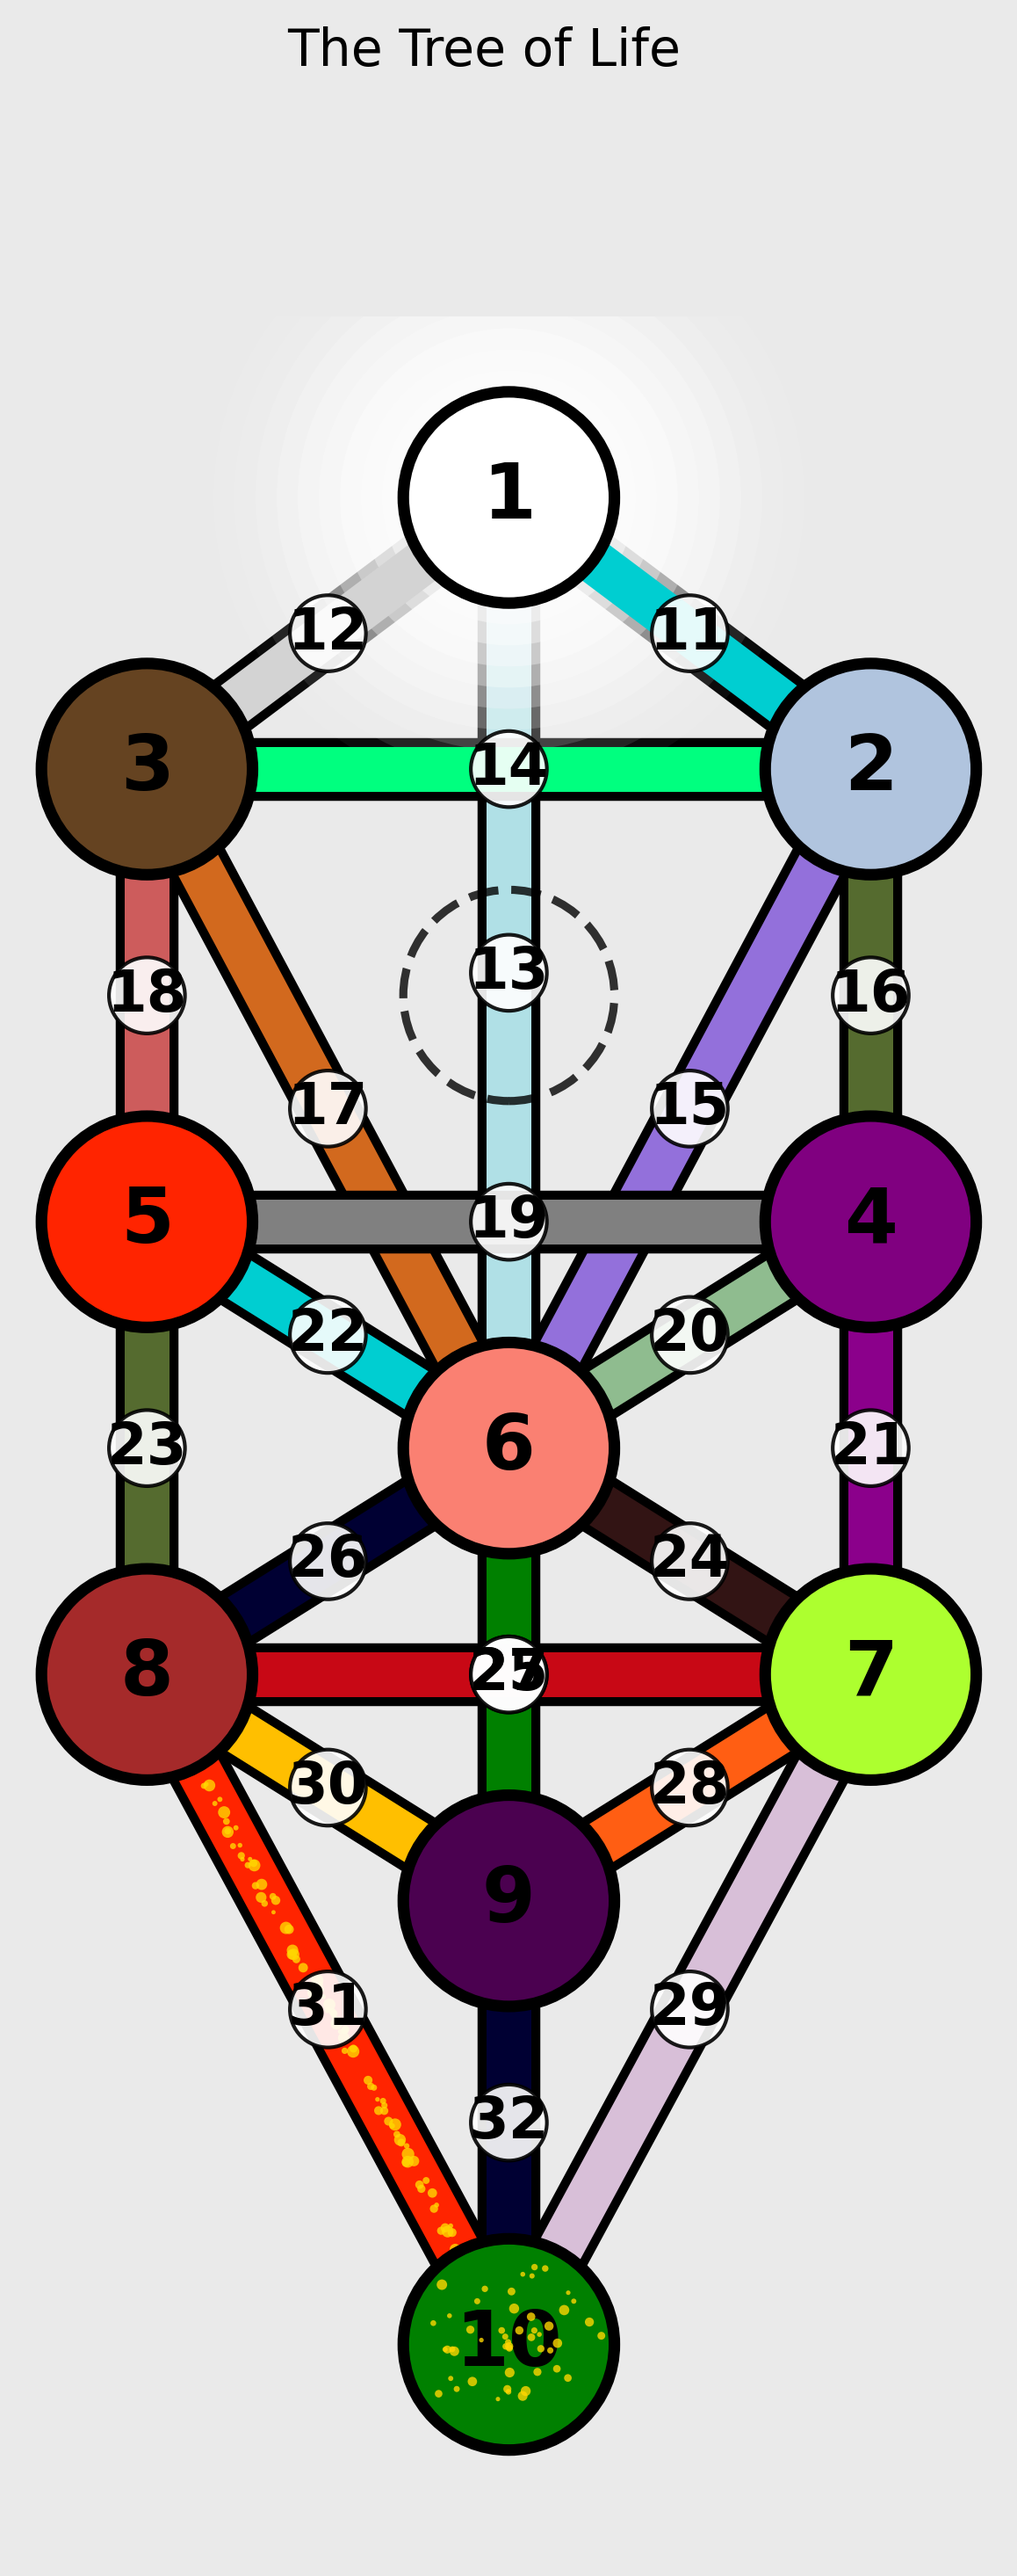
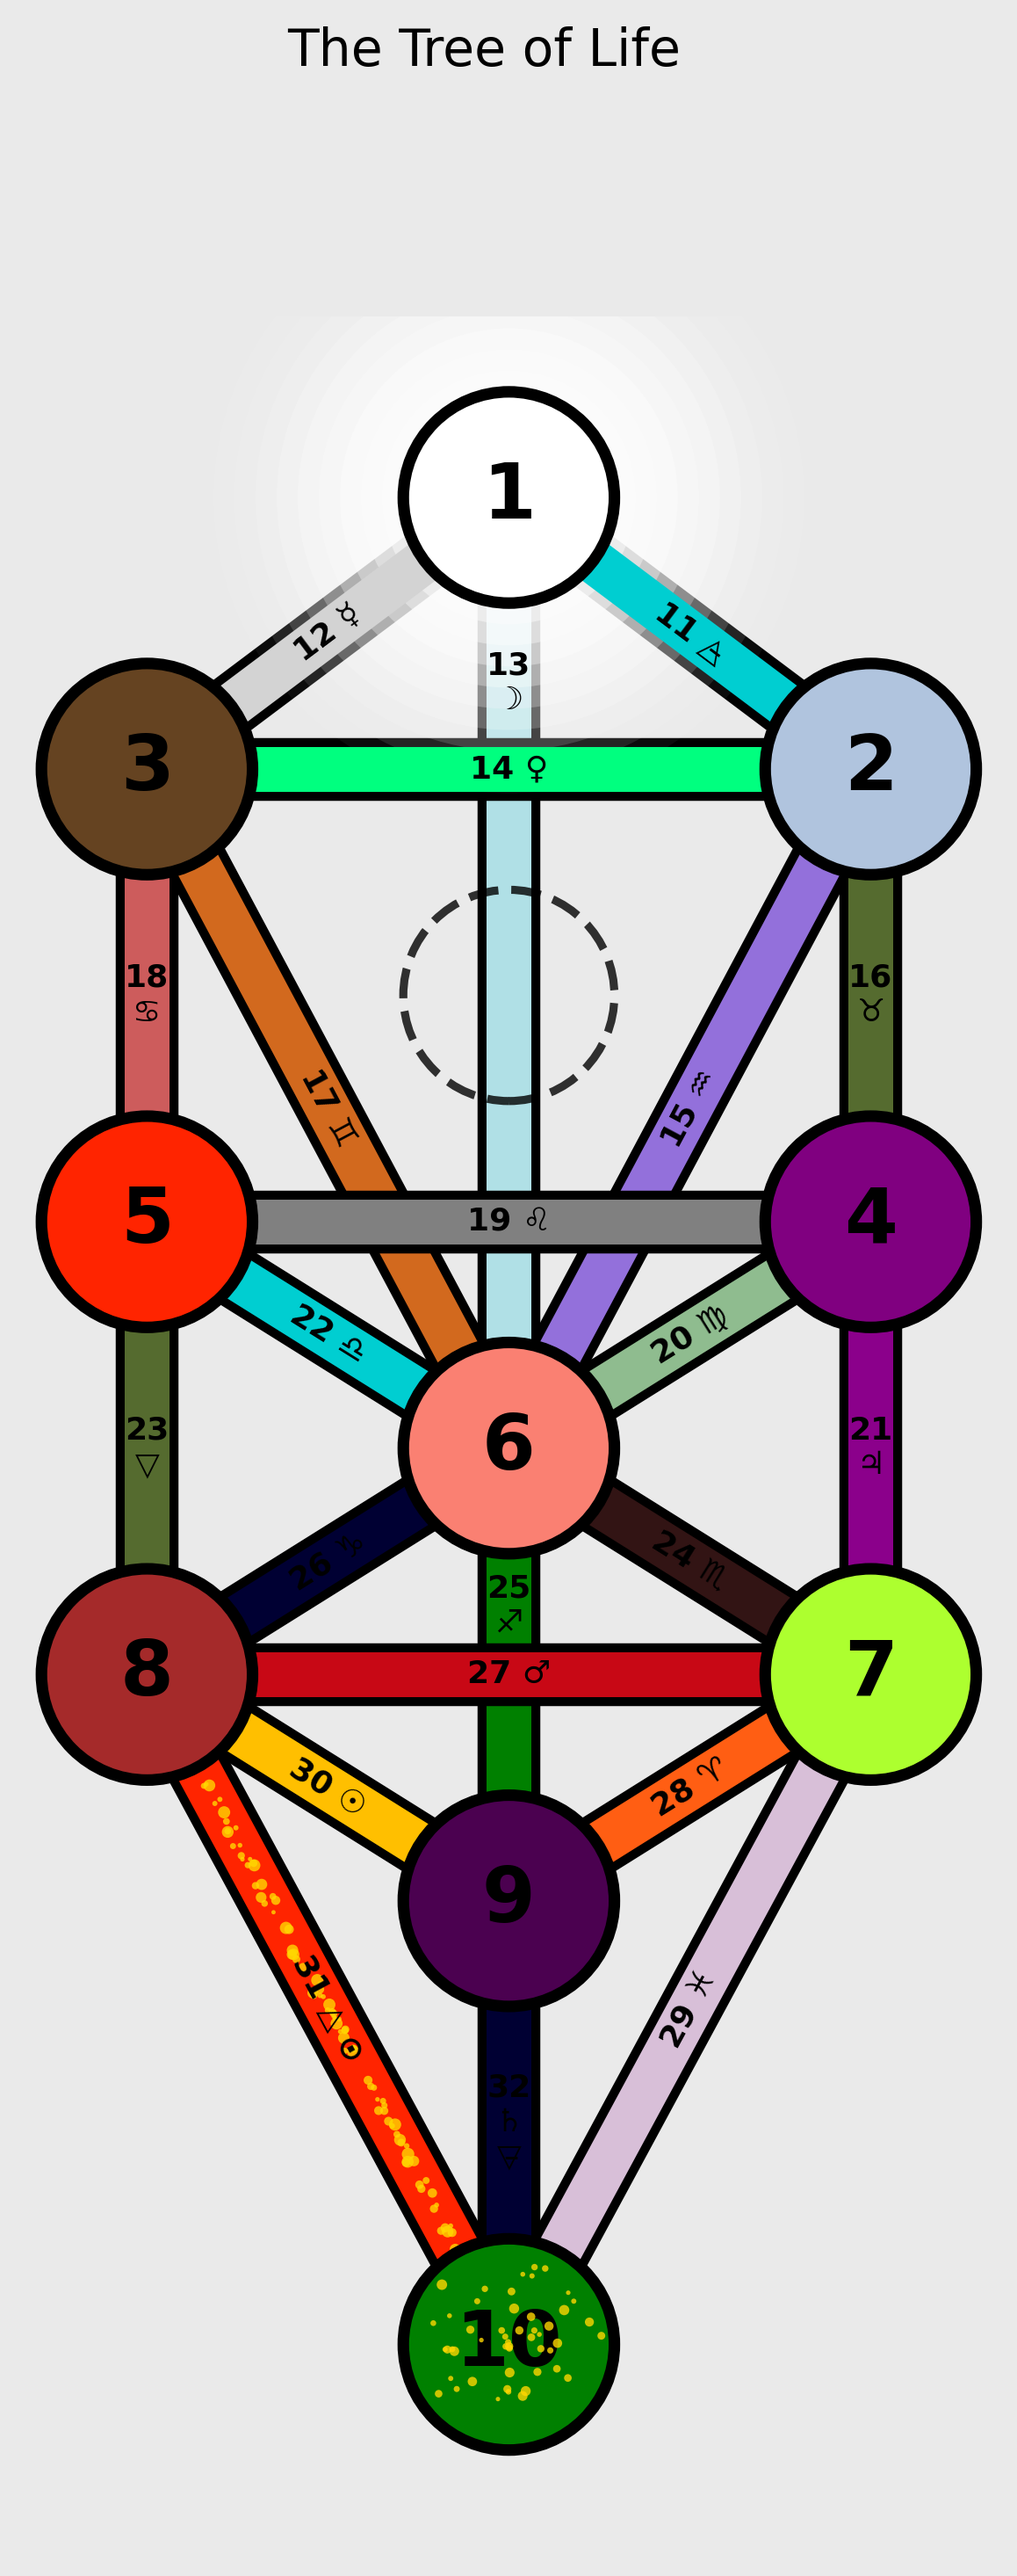
feat: add astrological and elemental symbols to path numbers

diff --git a/TreeOfLife.py b/TreeOfLife.py
@@ -1,6 +1,7 @@
 import matplotlib.pyplot as plt
 import matplotlib.patches as patches
-from typing import Tuple, Dict, Optional, NamedTuple, Any
+from typing import Tuple, Dict, Optional, NamedTuple, Any, List
+import numpy as np
 from pathlib import Path as FilePath
 
 # Import color-related functionality from color_utils
@@ -657,7 +658,7 @@ class TreeOfLife:
 
     def _add_path_number(self, ax, path_num: int, x1: float, y1: float, x2: float, y2: float, zorder: int) -> None:
         """
-        Add the path number at the midpoint of the path.
+        Add the path number at the midpoint of the path, including astrological/elemental symbols.
 
         Args:
             ax: Matplotlib axis
@@ -670,27 +671,89 @@ class TreeOfLife:
         mid_x = (x1 + x2) / 2
         mid_y = (y1 + y2) / 2
 
-        # Add small white circle as background for the path number
-        bg_circle = patches.Circle(
-            (mid_x, mid_y),
-            0.18 * self.sphere_scale_factor,
-            facecolor='white',
-            edgecolor='black',
-            linewidth=1,
-            alpha=0.9,
-            zorder=zorder - 0.5
-        )
-        ax.add_patch(bg_circle)
+        # Define astrological and elemental symbols for each path (ordered by path number 11-32)
+        path_symbols = {
+            11: '△̵',  # Air - Kether to Chokmah
+            12: '☿',   # Mercury - Kether to Binah
+            13: '☽',   # Moon - Kether to Tiphereth
+            14: '♀',   # Venus - Chokmah to Binah
+            15: '♒',   # Aquarius - Chokmah to Tiphereth
+            16: '♉',   # Taurus - Chokmah to Chesed
+            17: '♊',   # Gemini - Binah to Tiphereth
+            18: '♋',   # Cancer - Binah to Geburah
+            19: '♌',   # Leo - Chesed to Geburah
+            20: '♍',   # Virgo - Chesed to Tiphereth
+            21: '♃',   # Jupiter - Chesed to Netzach
+            22: '♎',   # Libra - Geburah to Tiphereth
+            23: '▽',   # Water - Geburah to Hod
+            24: '♏',   # Scorpio - Tiphereth to Netzach
+            25: '♐',   # Sagittarius - Tiphereth to Yesod
+            26: '♑',   # Capricorn - Tiphereth to Hod
+            27: '♂',   # Mars - Netzach to Hod
+            28: '♈',   # Aries - Netzach to Yesod
+            29: '♓',   # Pisces - Netzach to Malkuth
+            30: '☉',   # Sun - Hod to Yesod
+            31: '△ ⊙',  # Fire & Spirit - Hod to Malkuth
+            32: '♄\n▽̵'  # Saturn & Earth - Yesod to Malkuth
+        }
 
-        # Add the path number
+        # Define paths needing orientation fixes (appearing upside down)
+        paths_needing_orientation_fix = [12, 15, 20, 26, 28, 29]
+
+        # Define special path offsets for paths that need custom positioning
+        special_offset_y = 0
+
+        # Path 13 (Kether to Tiphereth) needs to be higher
+        if path_num == 13:
+            special_offset_y = 1.6 * self.spacing_factor
+
+        # Path 25 (Tiphereth to Yesod) needs to be raised a bit
+        if path_num == 25:
+            special_offset_y = 0.38 * self.spacing_factor
+
+        # Calculate the angle of the path for text rotation
+        angle_rad = np.arctan2(y2 - y1, x2 - x1)
+        angle_deg = np.degrees(angle_rad)
+
+        # Adjust angle for readability - text should be right-side up
+        if 90 < angle_deg < 270:
+            angle_deg -= 180
+
+        # Force flip for specific paths that are rendering upside down
+        if path_num in paths_needing_orientation_fix:
+            angle_deg += 180
+
+        # Determine if the path is vertical or horizontal
+        # within 5 degrees of vertical
+        is_vertical = abs(abs(angle_deg) - 90) < 5
+        is_horizontal = abs(angle_deg) < 5 or abs(
+            abs(angle_deg) - 180) < 5  # within 5 degrees of horizontal
+
+        # Set final rotation angle
+        if is_vertical or is_horizontal:
+            rotation = 0  # Keep horizontal for vertical and horizontal paths
+        else:
+            rotation = angle_deg  # Rotate text to match path angle
+
+        # Create combined label with path number and symbol
+        if path_num == 32 or is_vertical:
+            # For path 32 and vertical paths, stack number and symbol
+            path_label = f"{path_num}\n{path_symbols[path_num]}"
+        else:
+            # For horizontal and diagonal paths, put symbol next to number
+            path_label = f"{path_num} {path_symbols[path_num]}"
+
+        # Draw text without background or border
         ax.text(
-            mid_x, mid_y,
-            str(path_num),
-            color='black',
-            fontsize=9 * self.sphere_scale_factor,
+            mid_x, mid_y + special_offset_y,
+            path_label,
+            fontsize=9 * self.sphere_scale_factor * 0.55,  # Slightly smaller font
+            fontweight='bold',
             ha='center',
             va='center',
-            fontweight='bold',
+            color='black',
+            rotation=rotation,
+            rotation_mode='anchor',
             zorder=zorder
         )
 
